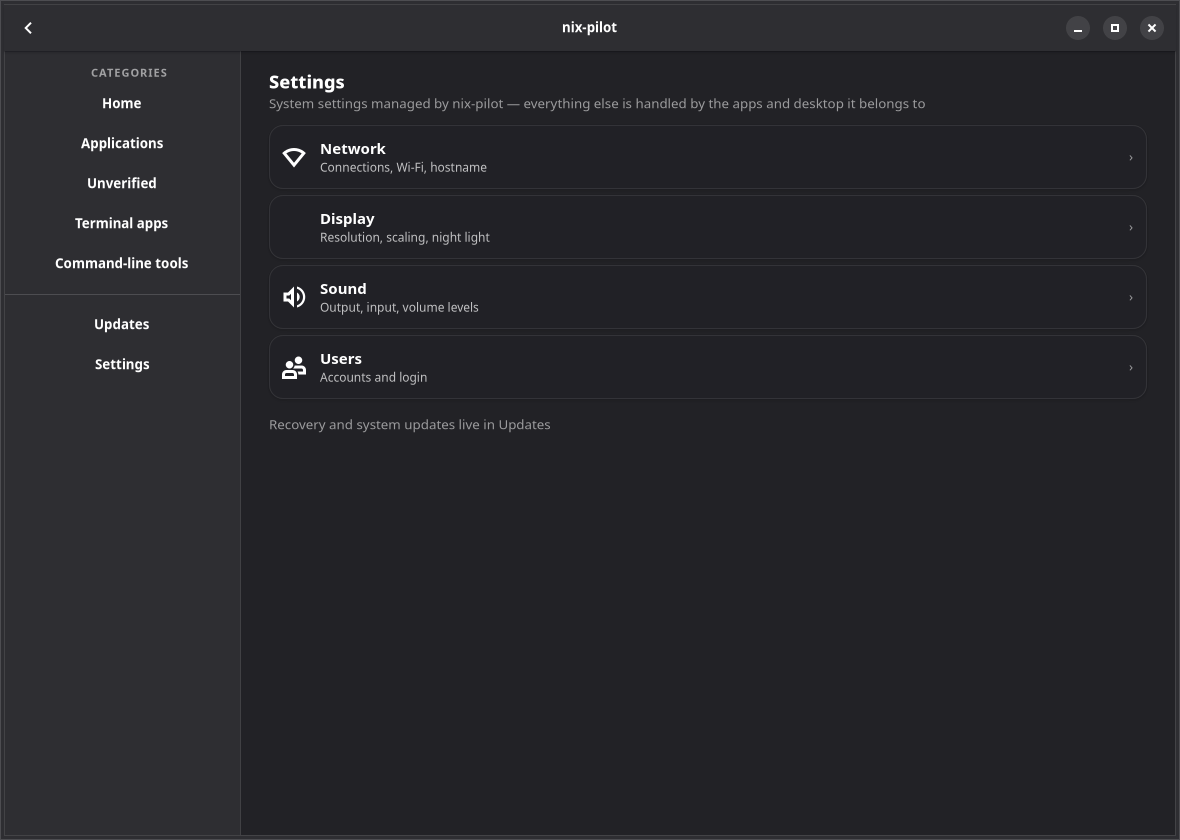
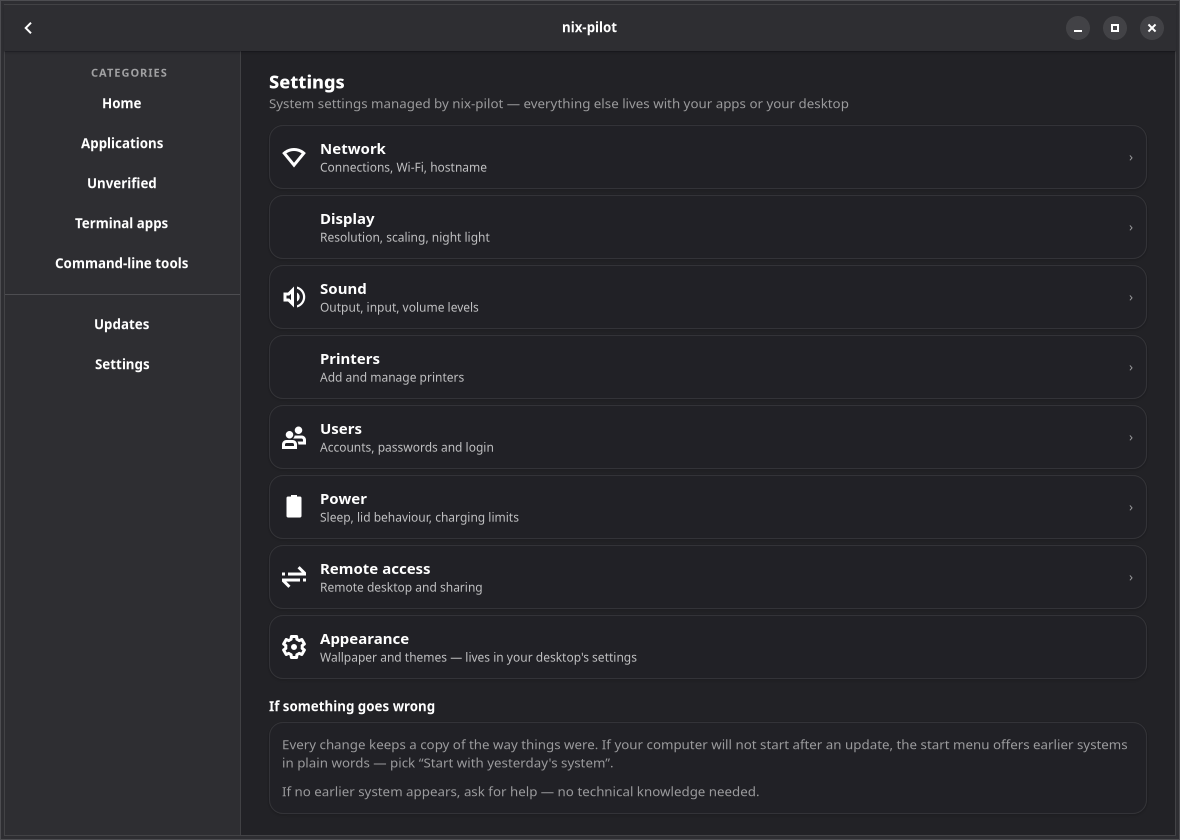
feat(app): Updates transaction flow + expanded Settings wireframes
page-updates becomes a 9-state transaction stack per
failure-and-recovery.md (ready -> summary -> applying -> done, plus build
failure, apply failure, rollback, restored, boot-recovery). Settings grows
to the REQ-5 areas with a D14 pointer for desktop chrome and the plain-
language recovery card. Prototype steps through the flow; --updates-state
captures any state; navigation map documents the full route.

diff --git a/app/src/bin/proto.rs b/app/src/bin/proto.rs
@@ -97,7 +97,10 @@ fn main() {
 
     let page_detail = load_box(&build_dir, "page-detail.ui", "page_detail");
     let page_settings = load_box(&build_dir, "page-settings.ui", "page_settings");
-    let page_updates = load_box(&build_dir, "page-updates.ui", "page_updates");
+    // updates is a transaction stack (ready -> summary -> applying -> done, plus
+    // failure/rollback/boot-recovery states), so load its builder for wiring.
+    let updates_b = gtk4::Builder::from_file(format!("{}/page-updates.ui", build_dir));
+    let page_updates: gtk4::Stack = updates_b.object("page_updates").expect("page_updates");
 
     stack.add_named(&page_home, Some("home"));
     stack.add_named(&page_search, Some("search"));
@@ -184,6 +187,28 @@ fn main() {
     wire_store_search(&store_search_home, &stack, &prev);
     wire_store_search(&store_search_results, &stack, &prev);
 
+    // ---- updates transaction states ------------------------------------------
+    let hook_update = |id: &str, target: &'static str| {
+        if let Some(b) = updates_b.object::<gtk4::Button>(id) {
+            let s = page_updates.clone();
+            b.connect_clicked(move |_| s.set_visible_child_name(target));
+        }
+    };
+    hook_update("btn_apply", "summary");
+    hook_update("btn_summary_back", "ready");
+    hook_update("btn_apply_changes", "applying");
+    hook_update("btn_finish_apply", "done");
+    hook_update("btn_rollback", "rollback");
+    hook_update("btn_close_done", "ready");
+    hook_update("btn_finish_rollback", "restored");
+    hook_update("btn_retry", "ready");
+    hook_update("btn_stay", "ready");
+    hook_update("btn_retry2", "ready");
+    hook_update("btn_stay2", "ready");
+    hook_update("btn_boot_restored", "restored");
+    hook_update("btn_restored_retry", "ready");
+    hook_update("btn_ask_help", "restored");
+
     // ---- back -> previous page ----------------------------------------------
     let stack_b = stack.clone();
     let pc_b = prev.clone();
@@ -199,6 +224,8 @@ fn main() {
     if !detail_name.is_empty() {
         detail_title.set_text(&detail_name);
     }
+    let updates_state = arg("--updates-state").unwrap_or_else(|| "ready".into());
+    page_updates.set_visible_child_name(&updates_state);
     window.set_child(Some(&body));
     stack.set_visible_child_name(&initial);
 

diff --git a/app/wireframes/navigation.md b/app/wireframes/navigation.md
@@ -20,10 +20,18 @@ flowchart LR
     DETAIL -->|"Back"| HOME
     HOME -->|"type in the store search"| RESULTS[Search results · grouped]
     RESULTS -->|"clear search / Back"| HOME
-    START -->|"Updates"| UPD[Updates · transaction flow]
-    UPD -->|"Prepare and install"| UPD2["summary → progress → rollback (spec: failure-and-recovery.md)"]
+    START -->|"Updates"| UPD[Updates · ready]
+    UPD -->|"Prepare and install"| SUM[Update summary]
+    SUM -->|"Apply changes"| APP[Applying]
+    APP -->|"finish"| DONE[Done]
+    DONE -->|"Go back to yesterday's system"| RB[Rollback]
+    RB -->|"finish"| REST[System restored]
+    UPD -.->|"build failure"| BF[Build failure · nothing changed]
+    APP -.->|"apply failure"| AF[Apply failure · nothing half-applied]
+    UPD -.->|"system will not boot"| BOOT[Boot recovery · "Start with yesterday's system"]
+    BOOT -->|"I'm back on an earlier system"| REST
     START -->|"Settings"| SET[Settings · system-only]
-    SET -->|"open a row"| SET2["Network · Display · Sound · Users … (D14)"]
+    SET -->|"open a row"| SET2["Network · Display · Sound · Printers · Users · Power · Remote access (REQ-5, D14)"]
 ```
 
 ## States (rendered)
@@ -36,18 +44,35 @@ flowchart LR
 
 ![Settings](proto-settings.png)
 
-![Updates](proto-updates.png)
+![Updates — ready](proto-updates.png)
+
+![Updates — summary](proto-updates-summary.png)
+
+![Updates — applying](proto-updates-applying.png)
+
+![Updates — done](proto-updates-done.png)
+
+![Updates — build failure](proto-updates-build-fail.png)
+
+![Updates — apply failure](proto-updates-apply-fail.png)
+
+![Updates — rollback](proto-updates-rollback.png)
+
+![Updates — restored](proto-updates-restored.png)
+
+![Updates — boot recovery](proto-updates-boot.png)
 
 ## Decisions the prototype encodes
 
 - Command-line tools appear only as a labelled group in search, never as app tiles (D16).
 - Unconfirmed candidates sit in their own "Unverified" group, never as tiles (D18).
 - Install is per-user by default, system-wide only when chosen (D9).
-- Settings surface is system-only with pointers; recovery lives in Updates (D14).
+- Settings surface is system-only with pointers to the desktop's own tools (D14); it carries the plain-language recovery card that ships before any failure (failure-and-recovery.md).
+- Updates is one transaction: prepare → review summary → apply (atomic) → done, with explicit build-failure ("nothing changed"), apply-failure ("nothing half-applied"), rollback ("go back to yesterday's system") and boot-recovery states (failure-and-recovery.md).
 
 ## Regenerating
 
 ```sh
 just app build
-just app wireframes            # all states, or named ones: `just app wireframes detail`
+just app wireframes            # all states, or named ones: `just app wireframes detail updates-summary`
 ```
